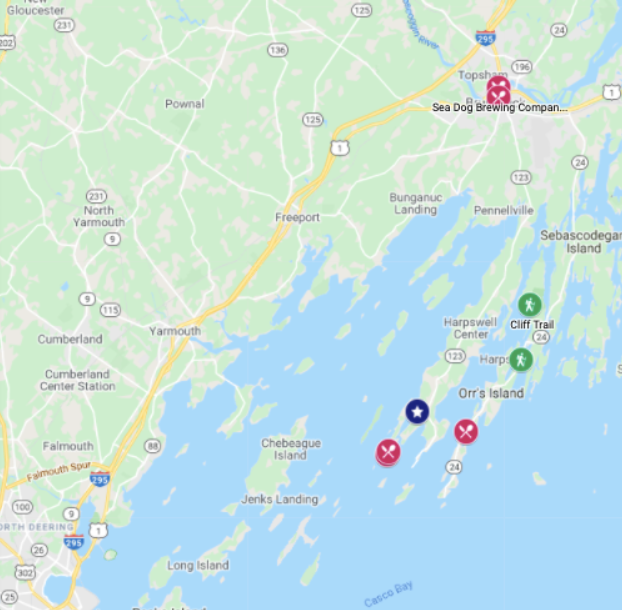
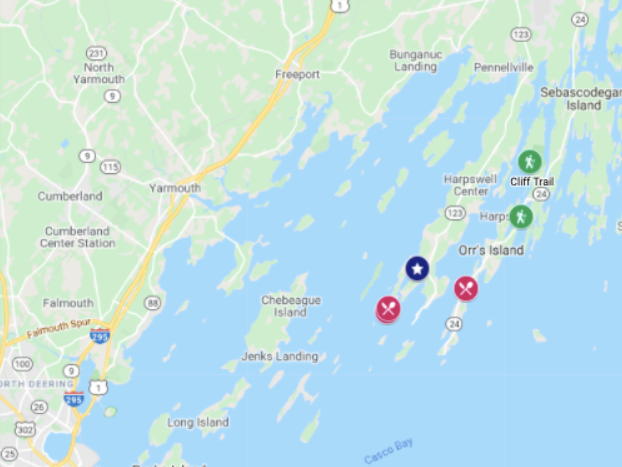
hotfix: image and font updates

diff --git a/src/App.jsx b/src/App.jsx
@@ -27,15 +27,15 @@ function App() {
           </div>
           <div style={{backgroundColor:'rgb(64, 100, 133)'}}>
           <div className='locations'style={{display:'grid', textAlign:'center', padding:'100px', 
-          gridTemplateColumns:'1fr 1fr', gridTemplateRows:'.05fr 1fr .05fr', gap:'2rem'
+          gridTemplateColumns:'1fr 1fr', gridTemplateRows:'.05fr .5fr .05fr', gap:'2rem'
         }}>
               <h3 className='map-header' style={{margin:'1rem 0' }}>Event Map</h3>
               <h3 className='sign-header' style={{margin:'1rem 0' }}>Yard Signs</h3>
-            <div className='map-img'style={{height:'inherit', }}>
-              <img  style={{maxHeight:'100%'}}src ={fakeMap} alt='map of participating locations'/>
+            <div className='map-img'>
+              <img src ={fakeMap} alt='map of participating locations'/>
             </div>
-            <div className='sign-img'style={{height:'inherit'}}>
-            <img style={{height:'100%'}}src ={yardsign} alt='yardsign'/>
+            <div className='sign-img' >
+            <img src ={yardsign} alt='yardsign'/>
             </div>
 
             <p className ='sign-text'style={{ textAlign:'center', margin:'2rem 0 0 0', gridColumnStart:'2', gridColumnEnd:'3',  color:'white', lineHeight:'1.75', fontSize:'16px', fontFamily: "Helvetica, arial, sans-serif"}}>Look for these signs to find participating galleries!
@@ -44,7 +44,7 @@ function App() {
           </div>
 </div>
           <div className='registration-section' style={{padding:'5%',textAlign:'center', display:'flex', flexDirection:'column', gap:'2rem',  width:'75%'}}>
-            <h2>Registration and Meet & Greet</h2>
+            <h4>Registration and Meet & Greet</h4>
             <p>
             Our idea for an open studio tour sprang from the desire to get acquainted with the local art and craft community.  With that in mind, we’re hosting a “meet and greet” on Saturday, May 18, at Nancy Grice’s studio in Harpswell. If you would like to join the tour and meet your fellow creatives, please email lizstamey@yahoo.com as soon as possible.  
               </p>
